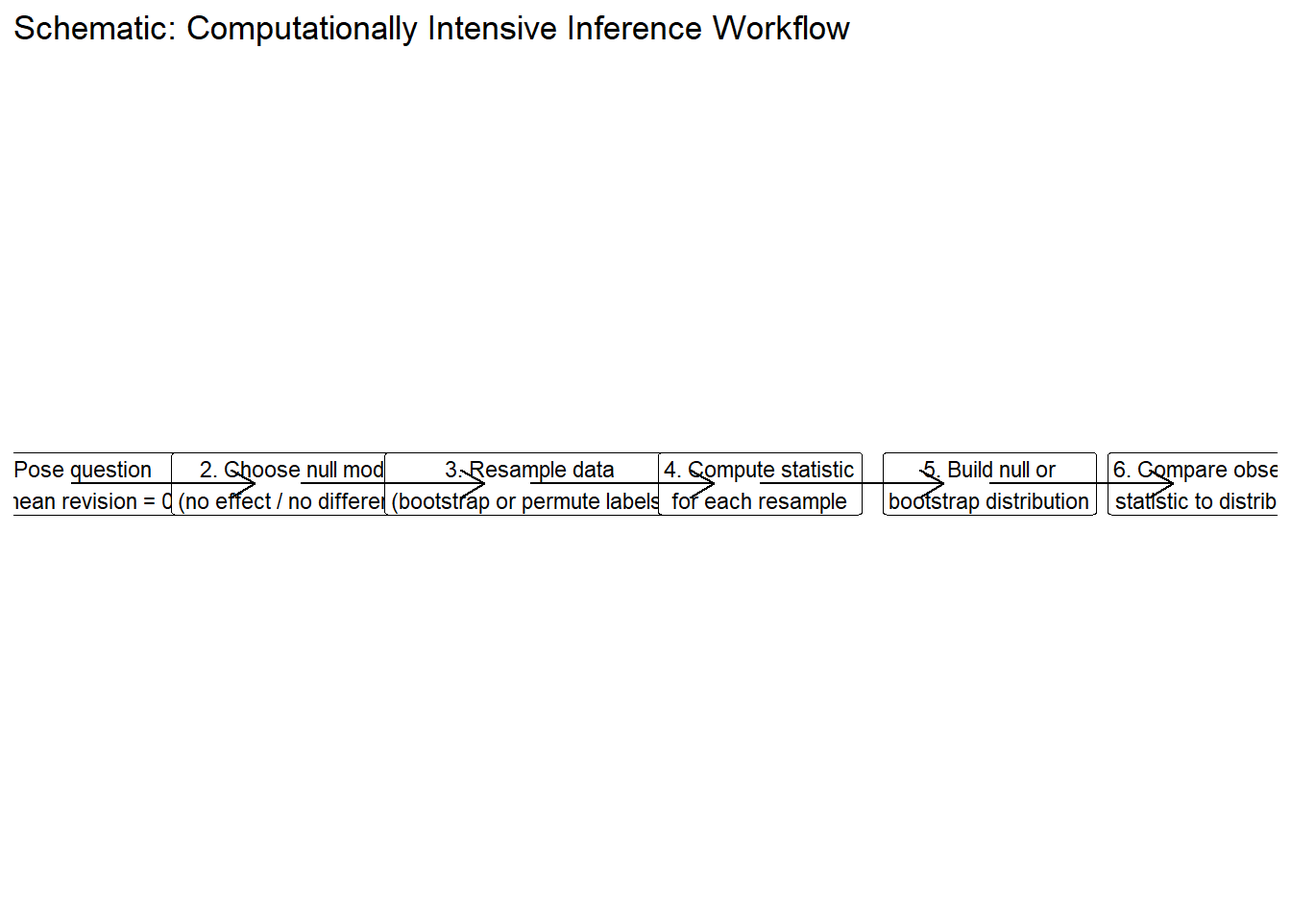
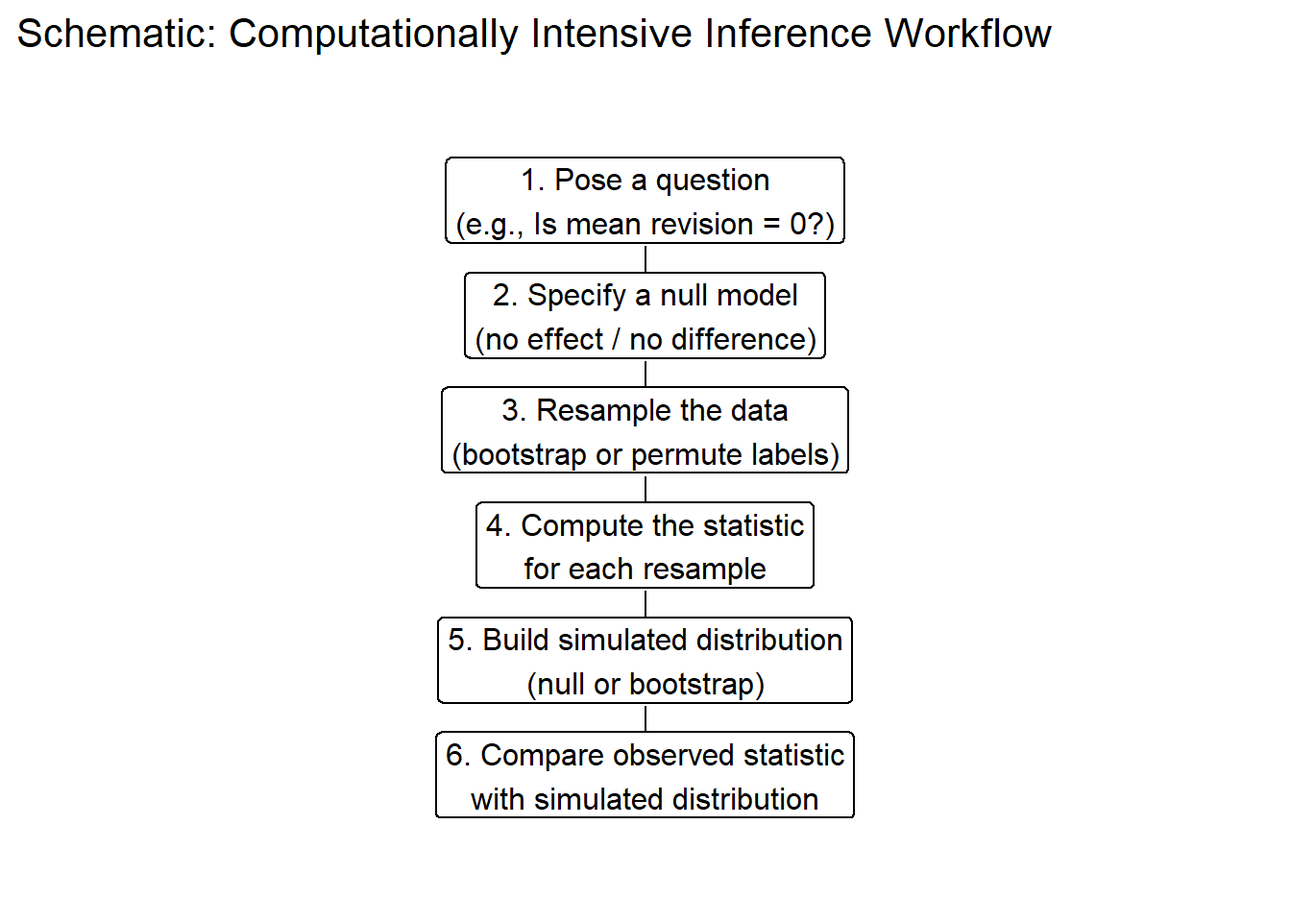
commit @6:59 PM on 12/7/25

Changed region(s): [[0.0, 0.1562, 1.0, 0.9062], [0.0, 0.0, 0.8125, 0.0625]]

diff --git a/docs/mp04.html b/docs/mp04.html
@@ -141,9 +141,12 @@ pre > code.sourceCode > span > a:first-child::before { text-decoration: underlin
   <ul class="collapse">
   <li><a href="#introduction" id="toc-introduction" class="nav-link active" data-scroll-target="#introduction">Introduction</a></li>
   <li><a href="#data-acquisition" id="toc-data-acquisition" class="nav-link" data-scroll-target="#data-acquisition">Data Acquisition</a></li>
+  <li><a href="#task-1-downloading-ces-total-nonfarm-payroll" id="toc-task-1-downloading-ces-total-nonfarm-payroll" class="nav-link" data-scroll-target="#task-1-downloading-ces-total-nonfarm-payroll">Task 1: Downloading CES Total Nonfarm Payroll**</a></li>
   <li><a href="#task-2-download-ces-revision-tables" id="toc-task-2-download-ces-revision-tables" class="nav-link" data-scroll-target="#task-2-download-ces-revision-tables">Task 2 — Download CES Revision Tables</a></li>
+  <li><a href="#task-3-data-exploration-visualization" id="toc-task-3-data-exploration-visualization" class="nav-link" data-scroll-target="#task-3-data-exploration-visualization">Task 3 — Data Exploration &amp; Visualization</a></li>
   <li><a href="#task-4-statistical-inference-setup" id="toc-task-4-statistical-inference-setup" class="nav-link" data-scroll-target="#task-4-statistical-inference-setup">Task 4 — Statistical Inference Setup</a></li>
   <li><a href="#task-5-fact-checking-public-claims-about-ces-revisions" id="toc-task-5-fact-checking-public-claims-about-ces-revisions" class="nav-link" data-scroll-target="#task-5-fact-checking-public-claims-about-ces-revisions">Task 5 — Fact-Checking Public Claims About CES Revisions</a></li>
+  <li><a href="#extra-credit-1-non-technical-explanation-of-computational-inference" id="toc-extra-credit-1-non-technical-explanation-of-computational-inference" class="nav-link" data-scroll-target="#extra-credit-1-non-technical-explanation-of-computational-inference">Extra Credit — 1⃣ Non-Technical Explanation of Computational Inference</a></li>
   </ul>
 </nav>
     </div>
@@ -211,7 +214,10 @@ pre > code.sourceCode > span > a:first-child::before { text-decoration: underlin
 <span id="cb1-15"><a href="#cb1-15" aria-hidden="true" tabindex="-1"></a><span class="fu">invisible</span>(<span class="fu">lapply</span>(needed_pkgs, library, <span class="at">character.only =</span> <span class="cn">TRUE</span>))</span></code></pre></div><button title="Copy to Clipboard" class="code-copy-button"><i class="bi"></i></button></div>
 </details>
 </div>
-<p><strong>Task 1: Downloading CES Total Nonfarm Payroll</strong></p>
+</section>
+</section>
+<section id="task-1-downloading-ces-total-nonfarm-payroll" class="level2">
+<h2 class="anchored" data-anchor-id="task-1-downloading-ces-total-nonfarm-payroll">Task 1: Downloading CES Total Nonfarm Payroll**</h2>
 <p>We begin by loading the R packages required for downloading, cleaning, and analyzing the Current Employment Statistics (CES) dataset.<br>
 If any packages are missing, they are installed automatically to ensure full reproducibility.</p>
 <div class="cell">
@@ -223,44 +229,34 @@ If any packages are missing, they are installed automatically to ensure full rep
 <span id="cb2-4"><a href="#cb2-4" aria-hidden="true" tabindex="-1"></a><span class="fu">library</span>(lubridate)</span>
 <span id="cb2-5"><a href="#cb2-5" aria-hidden="true" tabindex="-1"></a><span class="fu">library</span>(janitor)</span>
 <span id="cb2-6"><a href="#cb2-6" aria-hidden="true" tabindex="-1"></a></span>
-<span id="cb2-7"><a href="#cb2-7" aria-hidden="true" tabindex="-1"></a><span class="co"># --- 1. Build the HTTP request to the PDQ page ---</span></span>
+<span id="cb2-7"><a href="#cb2-7" aria-hidden="true" tabindex="-1"></a><span class="co"># --- 1. Building the HTTP request to the PDQ page ---</span></span>
 <span id="cb2-8"><a href="#cb2-8" aria-hidden="true" tabindex="-1"></a></span>
 <span id="cb2-9"><a href="#cb2-9" aria-hidden="true" tabindex="-1"></a>ces_base <span class="ot">&lt;-</span> <span class="st">"https://data.bls.gov/pdq/SurveyOutputServlet"</span></span>
 <span id="cb2-10"><a href="#cb2-10" aria-hidden="true" tabindex="-1"></a></span>
 <span id="cb2-11"><a href="#cb2-11" aria-hidden="true" tabindex="-1"></a>ces_req <span class="ot">&lt;-</span> <span class="fu">request</span>(ces_base) <span class="sc">|&gt;</span></span>
 <span id="cb2-12"><a href="#cb2-12" aria-hidden="true" tabindex="-1"></a>  <span class="fu">req_method</span>(<span class="st">"POST"</span>) <span class="sc">|&gt;</span></span>
 <span id="cb2-13"><a href="#cb2-13" aria-hidden="true" tabindex="-1"></a>  <span class="fu">req_body_form</span>(</span>
-<span id="cb2-14"><a href="#cb2-14" aria-hidden="true" tabindex="-1"></a>    <span class="co"># IMPORTANT:</span></span>
-<span id="cb2-15"><a href="#cb2-15" aria-hidden="true" tabindex="-1"></a>    <span class="co"># These fields MUST match what you see in your browser's</span></span>
-<span id="cb2-16"><a href="#cb2-16" aria-hidden="true" tabindex="-1"></a>    <span class="co"># Network -&gt; Request Payload when you:</span></span>
-<span id="cb2-17"><a href="#cb2-17" aria-hidden="true" tabindex="-1"></a>    <span class="co">#   - go to Data Finder top picks for CES</span></span>
-<span id="cb2-18"><a href="#cb2-18" aria-hidden="true" tabindex="-1"></a>    <span class="co">#   - select "Total Nonfarm, Seasonally Adjusted"</span></span>
-<span id="cb2-19"><a href="#cb2-19" aria-hidden="true" tabindex="-1"></a>    <span class="co">#   - set start year = 1979</span></span>
-<span id="cb2-20"><a href="#cb2-20" aria-hidden="true" tabindex="-1"></a>    <span class="co">#</span></span>
-<span id="cb2-21"><a href="#cb2-21" aria-hidden="true" tabindex="-1"></a>    <span class="co"># What I expect (you can adjust if your browser shows slightly different names):</span></span>
-<span id="cb2-22"><a href="#cb2-22" aria-hidden="true" tabindex="-1"></a>    <span class="at">survey    =</span> <span class="st">"ce"</span>,</span>
-<span id="cb2-23"><a href="#cb2-23" aria-hidden="true" tabindex="-1"></a>    <span class="at">from_year =</span> <span class="st">"1979"</span>,</span>
-<span id="cb2-24"><a href="#cb2-24" aria-hidden="true" tabindex="-1"></a>    <span class="at">to_year   =</span> <span class="st">"2025"</span>,</span>
-<span id="cb2-25"><a href="#cb2-25" aria-hidden="true" tabindex="-1"></a>    <span class="co"># This is the CES series ID for All Employees, Total Nonfarm, SA</span></span>
-<span id="cb2-26"><a href="#cb2-26" aria-hidden="true" tabindex="-1"></a>    <span class="at">series_id =</span> <span class="st">"CES0000000001"</span></span>
-<span id="cb2-27"><a href="#cb2-27" aria-hidden="true" tabindex="-1"></a>    <span class="co"># If your browser shows additional form fields (periods, output_type, etc.),</span></span>
-<span id="cb2-28"><a href="#cb2-28" aria-hidden="true" tabindex="-1"></a>    <span class="co"># add them here exactly as shown.</span></span>
-<span id="cb2-29"><a href="#cb2-29" aria-hidden="true" tabindex="-1"></a>  )</span>
-<span id="cb2-30"><a href="#cb2-30" aria-hidden="true" tabindex="-1"></a></span>
-<span id="cb2-31"><a href="#cb2-31" aria-hidden="true" tabindex="-1"></a><span class="co"># Perform request and get HTML</span></span>
-<span id="cb2-32"><a href="#cb2-32" aria-hidden="true" tabindex="-1"></a>ces_html <span class="ot">&lt;-</span> ces_req <span class="sc">|&gt;</span></span>
-<span id="cb2-33"><a href="#cb2-33" aria-hidden="true" tabindex="-1"></a>  <span class="fu">req_perform</span>() <span class="sc">|&gt;</span></span>
-<span id="cb2-34"><a href="#cb2-34" aria-hidden="true" tabindex="-1"></a>  <span class="fu">resp_body_html</span>()</span>
-<span id="cb2-35"><a href="#cb2-35" aria-hidden="true" tabindex="-1"></a></span>
-<span id="cb2-36"><a href="#cb2-36" aria-hidden="true" tabindex="-1"></a><span class="co"># --- 2. Grab the main data table from the HTML ---</span></span>
-<span id="cb2-37"><a href="#cb2-37" aria-hidden="true" tabindex="-1"></a></span>
-<span id="cb2-38"><a href="#cb2-38" aria-hidden="true" tabindex="-1"></a>ces_raw_tbl <span class="ot">&lt;-</span> ces_html <span class="sc">|&gt;</span></span>
-<span id="cb2-39"><a href="#cb2-39" aria-hidden="true" tabindex="-1"></a>  <span class="fu">html_element</span>(<span class="st">"table"</span>) <span class="sc">|&gt;</span></span>
-<span id="cb2-40"><a href="#cb2-40" aria-hidden="true" tabindex="-1"></a>  <span class="fu">html_table</span>(<span class="at">fill =</span> <span class="cn">TRUE</span>) <span class="sc">|&gt;</span></span>
-<span id="cb2-41"><a href="#cb2-41" aria-hidden="true" tabindex="-1"></a>  <span class="fu">clean_names</span>()</span>
-<span id="cb2-42"><a href="#cb2-42" aria-hidden="true" tabindex="-1"></a></span>
-<span id="cb2-43"><a href="#cb2-43" aria-hidden="true" tabindex="-1"></a><span class="co"># Peek at the raw table structure</span></span>
-<span id="cb2-44"><a href="#cb2-44" aria-hidden="true" tabindex="-1"></a><span class="fu">head</span>(ces_raw_tbl)</span></code></pre></div><button title="Copy to Clipboard" class="code-copy-button"><i class="bi"></i></button></div>
+<span id="cb2-14"><a href="#cb2-14" aria-hidden="true" tabindex="-1"></a>    <span class="at">survey    =</span> <span class="st">"ce"</span>,</span>
+<span id="cb2-15"><a href="#cb2-15" aria-hidden="true" tabindex="-1"></a>    <span class="at">from_year =</span> <span class="st">"1979"</span>,</span>
+<span id="cb2-16"><a href="#cb2-16" aria-hidden="true" tabindex="-1"></a>    <span class="at">to_year   =</span> <span class="st">"2025"</span>,</span>
+<span id="cb2-17"><a href="#cb2-17" aria-hidden="true" tabindex="-1"></a>    <span class="co"># This is the CES series ID for All Employees, Total Nonfarm, SA</span></span>
+<span id="cb2-18"><a href="#cb2-18" aria-hidden="true" tabindex="-1"></a>    <span class="at">series_id =</span> <span class="st">"CES0000000001"</span></span>
+<span id="cb2-19"><a href="#cb2-19" aria-hidden="true" tabindex="-1"></a>  )</span>
+<span id="cb2-20"><a href="#cb2-20" aria-hidden="true" tabindex="-1"></a></span>
+<span id="cb2-21"><a href="#cb2-21" aria-hidden="true" tabindex="-1"></a><span class="co"># Performing request and getting HTML</span></span>
+<span id="cb2-22"><a href="#cb2-22" aria-hidden="true" tabindex="-1"></a>ces_html <span class="ot">&lt;-</span> ces_req <span class="sc">|&gt;</span></span>
+<span id="cb2-23"><a href="#cb2-23" aria-hidden="true" tabindex="-1"></a>  <span class="fu">req_perform</span>() <span class="sc">|&gt;</span></span>
+<span id="cb2-24"><a href="#cb2-24" aria-hidden="true" tabindex="-1"></a>  <span class="fu">resp_body_html</span>()</span>
+<span id="cb2-25"><a href="#cb2-25" aria-hidden="true" tabindex="-1"></a></span>
+<span id="cb2-26"><a href="#cb2-26" aria-hidden="true" tabindex="-1"></a><span class="co"># --- 2. Grabbing the main data table from the HTML ---</span></span>
+<span id="cb2-27"><a href="#cb2-27" aria-hidden="true" tabindex="-1"></a></span>
+<span id="cb2-28"><a href="#cb2-28" aria-hidden="true" tabindex="-1"></a>ces_raw_tbl <span class="ot">&lt;-</span> ces_html <span class="sc">|&gt;</span></span>
+<span id="cb2-29"><a href="#cb2-29" aria-hidden="true" tabindex="-1"></a>  <span class="fu">html_element</span>(<span class="st">"table"</span>) <span class="sc">|&gt;</span></span>
+<span id="cb2-30"><a href="#cb2-30" aria-hidden="true" tabindex="-1"></a>  <span class="fu">html_table</span>(<span class="at">fill =</span> <span class="cn">TRUE</span>) <span class="sc">|&gt;</span></span>
+<span id="cb2-31"><a href="#cb2-31" aria-hidden="true" tabindex="-1"></a>  <span class="fu">clean_names</span>()</span>
+<span id="cb2-32"><a href="#cb2-32" aria-hidden="true" tabindex="-1"></a></span>
+<span id="cb2-33"><a href="#cb2-33" aria-hidden="true" tabindex="-1"></a><span class="co"># Peeking at the raw table structure</span></span>
+<span id="cb2-34"><a href="#cb2-34" aria-hidden="true" tabindex="-1"></a><span class="fu">head</span>(ces_raw_tbl)</span></code></pre></div><button title="Copy to Clipboard" class="code-copy-button"><i class="bi"></i></button></div>
 </details>
 <div class="cell-output-display">
 <div data-pagedtable="false">
@@ -290,15 +286,15 @@ If any packages are missing, they are installed automatically to ensure full rep
 </div>
 <details class="code-fold">
 <summary>Code</summary>
-<div class="code-copy-outer-scaffold"><div class="sourceCode cell-code" id="cb6"><pre class="sourceCode r code-with-copy"><code class="sourceCode r"><span id="cb6-1"><a href="#cb6-1" aria-hidden="true" tabindex="-1"></a><span class="co"># Get ALL tables from the HTML</span></span>
+<div class="code-copy-outer-scaffold"><div class="sourceCode cell-code" id="cb6"><pre class="sourceCode r code-with-copy"><code class="sourceCode r"><span id="cb6-1"><a href="#cb6-1" aria-hidden="true" tabindex="-1"></a><span class="co"># Getting ALL tables from the HTML</span></span>
 <span id="cb6-2"><a href="#cb6-2" aria-hidden="true" tabindex="-1"></a>all_tables <span class="ot">&lt;-</span> ces_html <span class="sc">|&gt;</span> <span class="fu">html_elements</span>(<span class="st">"table"</span>)</span>
 <span id="cb6-3"><a href="#cb6-3" aria-hidden="true" tabindex="-1"></a></span>
-<span id="cb6-4"><a href="#cb6-4" aria-hidden="true" tabindex="-1"></a><span class="co"># Extract the SECOND table, which you confirmed is the Year–Month table</span></span>
+<span id="cb6-4"><a href="#cb6-4" aria-hidden="true" tabindex="-1"></a><span class="co"># Extracting the SECOND table, (Year–Month table)</span></span>
 <span id="cb6-5"><a href="#cb6-5" aria-hidden="true" tabindex="-1"></a>ces_data_raw <span class="ot">&lt;-</span> all_tables[[<span class="dv">2</span>]] <span class="sc">|&gt;</span></span>
 <span id="cb6-6"><a href="#cb6-6" aria-hidden="true" tabindex="-1"></a>  <span class="fu">html_table</span>(<span class="at">fill =</span> <span class="cn">TRUE</span>) <span class="sc">|&gt;</span></span>
 <span id="cb6-7"><a href="#cb6-7" aria-hidden="true" tabindex="-1"></a>  <span class="fu">clean_names</span>()</span>
 <span id="cb6-8"><a href="#cb6-8" aria-hidden="true" tabindex="-1"></a></span>
-<span id="cb6-9"><a href="#cb6-9" aria-hidden="true" tabindex="-1"></a><span class="co"># Check it</span></span>
+<span id="cb6-9"><a href="#cb6-9" aria-hidden="true" tabindex="-1"></a><span class="co"># Checking it</span></span>
 <span id="cb6-10"><a href="#cb6-10" aria-hidden="true" tabindex="-1"></a><span class="fu">head</span>(ces_data_raw)</span></code></pre></div><button title="Copy to Clipboard" class="code-copy-button"><i class="bi"></i></button></div>
 </details>
 <div class="cell-output-display">
@@ -309,7 +305,6 @@ If any packages are missing, they are installed automatically to ensure full rep
 </div>
 </div>
 </div>
-</section>
 <section id="clean-and-reshape-ces-data" class="level3">
 <h3 class="anchored" data-anchor-id="clean-and-reshape-ces-data">Clean and Reshape CES Data</h3>
 <p>Once the raw table is extracted, we convert it into a tidy monthly time-series structure.<br>
@@ -358,12 +353,10 @@ We download these tables directly from the BLS website for the full period (1979
 <summary>Code</summary>
 <div class="code-copy-outer-scaffold"><div class="sourceCode cell-code" id="cb8"><pre class="sourceCode r code-with-copy"><code class="sourceCode r"><span id="cb8-1"><a href="#cb8-1" aria-hidden="true" tabindex="-1"></a>url_rev <span class="ot">&lt;-</span> <span class="st">"https://www.bls.gov/web/empsit/cesnaicsrev.htm"</span></span>
 <span id="cb8-2"><a href="#cb8-2" aria-hidden="true" tabindex="-1"></a></span>
-<span id="cb8-3"><a href="#cb8-3" aria-hidden="true" tabindex="-1"></a>rev_html <span class="ot">&lt;-</span> <span class="fu">request</span>(url_rev) <span class="sc">|&gt;</span></span>
-<span id="cb8-4"><a href="#cb8-4" aria-hidden="true" tabindex="-1"></a>  <span class="fu">req_user_agent</span>(<span class="st">"Mozilla/5.0 (Windows NT 10.0)"</span>) <span class="sc">|&gt;</span>  <span class="co"># Avoids 403</span></span>
-<span id="cb8-5"><a href="#cb8-5" aria-hidden="true" tabindex="-1"></a>  <span class="fu">req_perform</span>() <span class="sc">|&gt;</span></span>
-<span id="cb8-6"><a href="#cb8-6" aria-hidden="true" tabindex="-1"></a>  <span class="fu">resp_body_html</span>()</span>
-<span id="cb8-7"><a href="#cb8-7" aria-hidden="true" tabindex="-1"></a></span>
-<span id="cb8-8"><a href="#cb8-8" aria-hidden="true" tabindex="-1"></a>rev_html</span></code></pre></div><button title="Copy to Clipboard" class="code-copy-button"><i class="bi"></i></button></div>
+<span id="cb8-3"><a href="#cb8-3" aria-hidden="true" tabindex="-1"></a><span class="co"># Simpler: let rvest handle the download directly</span></span>
+<span id="cb8-4"><a href="#cb8-4" aria-hidden="true" tabindex="-1"></a>rev_html <span class="ot">&lt;-</span> rvest<span class="sc">::</span><span class="fu">read_html</span>(url_rev)</span>
+<span id="cb8-5"><a href="#cb8-5" aria-hidden="true" tabindex="-1"></a></span>
+<span id="cb8-6"><a href="#cb8-6" aria-hidden="true" tabindex="-1"></a>rev_html</span></code></pre></div><button title="Copy to Clipboard" class="code-copy-button"><i class="bi"></i></button></div>
 </details>
 <div class="cell-output cell-output-stdout">
 <pre><code>{html_document}
@@ -395,7 +388,7 @@ that each corresponds to a specific year of CES revisions.</p>
 </div>
 <details class="code-fold">
 <summary>Code</summary>
-<div class="code-copy-outer-scaffold"><div class="sourceCode cell-code" id="cb12"><pre class="sourceCode r code-with-copy"><code class="sourceCode r"><span id="cb12-1"><a href="#cb12-1" aria-hidden="true" tabindex="-1"></a><span class="co"># Look at the first few table IDs to see the pattern</span></span>
+<div class="code-copy-outer-scaffold"><div class="sourceCode cell-code" id="cb12"><pre class="sourceCode r code-with-copy"><code class="sourceCode r"><span id="cb12-1"><a href="#cb12-1" aria-hidden="true" tabindex="-1"></a><span class="co"># Looking at the first few table IDs to see the pattern</span></span>
 <span id="cb12-2"><a href="#cb12-2" aria-hidden="true" tabindex="-1"></a><span class="fu">head</span>(<span class="fu">html_attr</span>(rev_tables, <span class="st">"id"</span>), <span class="dv">20</span>)</span></code></pre></div><button title="Copy to Clipboard" class="code-copy-button"><i class="bi"></i></button></div>
 </details>
 <div class="cell-output cell-output-stdout">
@@ -422,7 +415,7 @@ cleans the rows, and returns a tidy month-level dataset of original vs.&nbsp;fin
 <span id="cb14-7"><a href="#cb14-7" aria-hidden="true" tabindex="-1"></a>    <span class="fu">html_table</span>(<span class="at">header =</span> <span class="cn">FALSE</span>, <span class="at">fill =</span> <span class="cn">TRUE</span>) <span class="sc">|&gt;</span></span>
 <span id="cb14-8"><a href="#cb14-8" aria-hidden="true" tabindex="-1"></a>    janitor<span class="sc">::</span><span class="fu">clean_names</span>()</span>
 <span id="cb14-9"><a href="#cb14-9" aria-hidden="true" tabindex="-1"></a>  </span>
-<span id="cb14-10"><a href="#cb14-10" aria-hidden="true" tabindex="-1"></a>  <span class="co"># Drop the first 3 header rows, then keep the 12 months</span></span>
+<span id="cb14-10"><a href="#cb14-10" aria-hidden="true" tabindex="-1"></a>  <span class="co"># Dropping the first 3 header rows, then keeping the 12 months</span></span>
 <span id="cb14-11"><a href="#cb14-11" aria-hidden="true" tabindex="-1"></a>  tbl <span class="ot">&lt;-</span> tbl <span class="sc">|&gt;</span></span>
 <span id="cb14-12"><a href="#cb14-12" aria-hidden="true" tabindex="-1"></a>    <span class="fu">slice</span>(<span class="sc">-</span>(<span class="dv">1</span><span class="sc">:</span><span class="dv">3</span>)) <span class="sc">|&gt;</span></span>
 <span id="cb14-13"><a href="#cb14-13" aria-hidden="true" tabindex="-1"></a>    <span class="fu">slice</span>(<span class="dv">1</span><span class="sc">:</span><span class="dv">12</span>) <span class="sc">|&gt;</span></span>
@@ -445,7 +438,7 @@ cleans the rows, and returns a tidy month-level dataset of original vs.&nbsp;fin
 <span id="cb14-30"><a href="#cb14-30" aria-hidden="true" tabindex="-1"></a>  tbl</span>
 <span id="cb14-31"><a href="#cb14-31" aria-hidden="true" tabindex="-1"></a>}</span>
 <span id="cb14-32"><a href="#cb14-32" aria-hidden="true" tabindex="-1"></a></span>
-<span id="cb14-33"><a href="#cb14-33" aria-hidden="true" tabindex="-1"></a><span class="co"># Test again on 2024</span></span>
+<span id="cb14-33"><a href="#cb14-33" aria-hidden="true" tabindex="-1"></a><span class="co"># Testing again on 2024</span></span>
 <span id="cb14-34"><a href="#cb14-34" aria-hidden="true" tabindex="-1"></a><span class="fu">extract_ces_revisions_year</span>(<span class="dv">2024</span>)</span></code></pre></div><button title="Copy to Clipboard" class="code-copy-button"><i class="bi"></i></button></div>
 </details>
 <div class="cell-output-display">
@@ -471,7 +464,7 @@ to compile a single tidy dataset of monthly revision values, filtered through Ju
 <span id="cb15-5"><a href="#cb15-5" aria-hidden="true" tabindex="-1"></a>years <span class="ot">&lt;-</span> <span class="dv">1979</span><span class="sc">:</span><span class="dv">2025</span></span>
 <span id="cb15-6"><a href="#cb15-6" aria-hidden="true" tabindex="-1"></a></span>
 <span id="cb15-7"><a href="#cb15-7" aria-hidden="true" tabindex="-1"></a>ces_revisions <span class="ot">&lt;-</span> <span class="fu">map_dfr</span>(years, extract_ces_revisions_year) <span class="sc">|&gt;</span></span>
-<span id="cb15-8"><a href="#cb15-8" aria-hidden="true" tabindex="-1"></a>  <span class="co"># Only keep months through June 2025 as per instructions</span></span>
+<span id="cb15-8"><a href="#cb15-8" aria-hidden="true" tabindex="-1"></a>  <span class="co"># Only keeping months through June 2025 as per instructions</span></span>
 <span id="cb15-9"><a href="#cb15-9" aria-hidden="true" tabindex="-1"></a>  <span class="fu">filter</span>(date <span class="sc">&lt;=</span> <span class="fu">as.Date</span>(<span class="st">"2025-06-01"</span>)) <span class="sc">|&gt;</span></span>
 <span id="cb15-10"><a href="#cb15-10" aria-hidden="true" tabindex="-1"></a>  <span class="fu">arrange</span>(date)</span>
 <span id="cb15-11"><a href="#cb15-11" aria-hidden="true" tabindex="-1"></a></span>
@@ -530,8 +523,9 @@ into a unified monthly dataset and create additional features for analysis.</p>
 </div>
 </div>
 </section>
-<section id="task-3-data-exploration-visualization" class="level3">
-<h3 class="anchored" data-anchor-id="task-3-data-exploration-visualization">Task 3 — Data Exploration &amp; Visualization</h3>
+</section>
+<section id="task-3-data-exploration-visualization" class="level2">
+<h2 class="anchored" data-anchor-id="task-3-data-exploration-visualization">Task 3 — Data Exploration &amp; Visualization</h2>
 <p>To understand the overall behavior of CES employment and revisions over the long run,<br>
 I compute six key descriptive statistics across the full sample (1979–2025).</p>
 <div class="cell">
@@ -561,7 +555,6 @@ I compute six key descriptive statistics across the full sample (1979–2025).</
 </div>
 </div>
 </div>
-</section>
 <section id="visualization-1-ces-revisions-over-time" class="level3">
 <h3 class="anchored" data-anchor-id="visualization-1-ces-revisions-over-time">Visualization 1 — CES Revisions Over Time</h3>
 <p>This plot tracks monthly revisions (final − original estimate) from 1979–2025,<br>
@@ -679,7 +672,7 @@ variables are used throughout the tests in Task 4.</p>
 <span id="cb23-2"><a href="#cb23-2" aria-hidden="true" tabindex="-1"></a><span class="fu">library</span>(infer)</span>
 <span id="cb23-3"><a href="#cb23-3" aria-hidden="true" tabindex="-1"></a><span class="fu">library</span>(lubridate)</span>
 <span id="cb23-4"><a href="#cb23-4" aria-hidden="true" tabindex="-1"></a></span>
-<span id="cb23-5"><a href="#cb23-5" aria-hidden="true" tabindex="-1"></a><span class="co"># Add all needed variables to ces_full</span></span>
+<span id="cb23-5"><a href="#cb23-5" aria-hidden="true" tabindex="-1"></a><span class="co"># Adding all needed variables to ces_full</span></span>
 <span id="cb23-6"><a href="#cb23-6" aria-hidden="true" tabindex="-1"></a>ces_full <span class="ot">&lt;-</span> ces_full <span class="sc">|&gt;</span></span>
 <span id="cb23-7"><a href="#cb23-7" aria-hidden="true" tabindex="-1"></a>  <span class="fu">arrange</span>(date) <span class="sc">|&gt;</span></span>
 <span id="cb23-8"><a href="#cb23-8" aria-hidden="true" tabindex="-1"></a>  <span class="fu">mutate</span>(</span>
@@ -705,7 +698,7 @@ statistically significant.</p>
 <div class="cell">
 <details class="code-fold">
 <summary>Code</summary>
-<div class="code-copy-outer-scaffold"><div class="sourceCode cell-code" id="cb24"><pre class="sourceCode r code-with-copy"><code class="sourceCode r"><span id="cb24-1"><a href="#cb24-1" aria-hidden="true" tabindex="-1"></a><span class="co"># Count negative vs total before/after 2000</span></span>
+<div class="code-copy-outer-scaffold"><div class="sourceCode cell-code" id="cb24"><pre class="sourceCode r code-with-copy"><code class="sourceCode r"><span id="cb24-1"><a href="#cb24-1" aria-hidden="true" tabindex="-1"></a><span class="co"># Counting negative vs total before/after 2000</span></span>
 <span id="cb24-2"><a href="#cb24-2" aria-hidden="true" tabindex="-1"></a>neg_tab <span class="ot">&lt;-</span> ces_full <span class="sc">|&gt;</span></span>
 <span id="cb24-3"><a href="#cb24-3" aria-hidden="true" tabindex="-1"></a>  <span class="fu">filter</span>(<span class="sc">!</span><span class="fu">is.na</span>(negative_revision), <span class="sc">!</span><span class="fu">is.na</span>(post_2000)) <span class="sc">|&gt;</span></span>
 <span id="cb24-4"><a href="#cb24-4" aria-hidden="true" tabindex="-1"></a>  <span class="fu">group_by</span>(post_2000) <span class="sc">|&gt;</span></span>
@@ -747,14 +740,16 @@ sample estimates:
 0.5317460 0.4379085 </code></pre>
 </div>
 </div>
-</section>
-<section id="has-the-fraction-of-large-1-revisions-increased-post-2020" class="level3">
-<h3 class="anchored" data-anchor-id="has-the-fraction-of-large-1-revisions-increased-post-2020">4.2 — Has the fraction of large (&gt;1%) revisions increased post-2020?</h3>
-<p>To check whether revisions have become <strong>unusually large</strong> in recent years,<br>
-I flag months where the <strong>revision was greater than 1% of employment</strong> — a level<br>
-that may indicate meaningful measurement challenges.<br>
-A <strong>two-sample proportion test</strong> compares the rate of these large revisions<br>
-<strong>before vs.&nbsp;after 2020</strong>.</p>
+<section id="has-the-fraction-of-large-1-revisions-increased-post-2020" class="level4">
+<h4 class="anchored" data-anchor-id="has-the-fraction-of-large-1-revisions-increased-post-2020">4.2 — Has the fraction of large (&gt;1%) revisions increased post-2020?</h4>
+<p>To check whether revisions have become <em>unusually large</em> in recent years,<br>
+I flag months where the revision is more than 1% of employment:</p>
+<ul>
+<li><code>big = 1</code> if <code>|revision / level| &gt; 0.01</code></li>
+<li><code>big = 0</code> otherwise</li>
+</ul>
+<p>In my CES sample (Jan 1979–Jun 2025), <strong>no months</strong> exceed this 1% threshold in either the pre-2020 or post-2020 period. As a result, the two-sample proportion test has <code>prop 1 = 0</code>, <code>prop 2 = 0</code> and returns <code>NaN</code> for the test statistic and p-value.</p>
+<p>Substantively, this means that revisions larger than 1% of total employment are <strong>essentially non-existent</strong> in the data, even during the volatile post-2020 period. So while revisions can occasionally look large in absolute job counts, they almost never reach the “&gt;1% of employment” threshold.</p>
 <div class="cell">
 <details class="code-fold">
 <summary>Code</summary>
@@ -799,6 +794,7 @@ prop 1 prop 2
      0      0 </code></pre>
 </div>
 </div>
+</section>
 </section>
 <section id="is-the-average-revision-significantly-different-from-zero" class="level3">
 <h3 class="anchored" data-anchor-id="is-the-average-revision-significantly-different-from-zero">4.3 — Is the average revision significantly different from zero?</h3>
@@ -1187,7 +1183,8 @@ mean in group FALSE  mean in group TRUE
 </ol>
 <section id="what-do-revisions-look-like-in-the-ces-data" class="level4">
 <h4 class="anchored" data-anchor-id="what-do-revisions-look-like-in-the-ces-data">What do revisions look like in the CES data?</h4>
-<p>Across my full sample (January 1979–June 2025) there are 558 monthly observations. The <strong>average CES employment level</strong> is about 1.24707^{5} thousand jobs, with a standard deviation of roughly 1.9994^{4} thousand. This is a very large labor market.</p>
+<p>Across my full sample (January 1979–June 2025) there are 558 monthly observations. The <strong>average CES employment level</strong> is about <strong>124,707 thousand jobs</strong><br>
+(roughly <strong>125 million jobs</strong>), with a standard deviation of about <strong>19,994 thousand</strong>. This is a very large labor market.</p>
 <p>For revisions (final – original):</p>
 <ul>
 <li>The <strong>average revision</strong> is 1.9 thousand jobs, with standard deviation 57.9 thousand.</li>
@@ -1304,15 +1301,13 @@ They represent normal measurement noise in a large labor market.</p>
 0.001%</li>
 </ul>
 <p>These figures are very small relative to the overall labor market, indicating that typical revisions reflect <strong>modest measurement updates</strong>, not suspicious adjustments.</p>
-</section>
-<section id="are-large-revisions-more-common-in-recent-years" class="level3">
-<h3 class="anchored" data-anchor-id="are-large-revisions-more-common-in-recent-years">Are Large Revisions More Common in Recent Years?</h3>
-<p>Figures 2 and 3 illustrate that while revisions spike during major economic disruptions — such as recessions or the COVID period — they generally remain <strong>well under 1%</strong> of total employment.</p>
-<p>To formally identify “big” revisions, I flagged any month where:</p>
-<blockquote class="blockquote">
-<p>| revision / level | &gt; 1%</p>
-</blockquote>
-<p>Then compared their frequency <strong>before vs.&nbsp;after 2020</strong>:</p>
+<section id="are-large-revisions-more-common-in-recent-years" class="level4">
+<h4 class="anchored" data-anchor-id="are-large-revisions-more-common-in-recent-years">Are Large Revisions More Common in Recent Years?</h4>
+<p>Figures 2 and 3 show that revisions can spike during major economic disruptions — such as recessions or the COVID period — but they generally remain well under 1% of total employment.</p>
+<p>To formally identify “big” revisions, I flagged any month where</p>
+<p>[ || &gt; 0.01 ]</p>
+<p>In practice, <strong>no months</strong> in my sample exceed this 1% threshold, either before or after 2020. The table <code>big_tab_5</code> therefore has <code>big = 0</code> in both periods, and the two-sample proportion test in <code>big1pct_test_5</code> returns <code>NaN</code> (there is no variation to compare).</p>
+<p>Interpretation: revisions that are larger than 1% of total employment are <strong>extremely rare to non-existent</strong> in the CES data, even in the post-2020 era. This is consistent with normal measurement updates in a huge labor market, not with unusually manipulated data.</p>
 <div class="cell">
 <details class="code-fold">
 <summary>Code</summary>
@@ -1348,6 +1343,7 @@ prop 1 prop 2
 <code>big1pct_test_5</code> provides a two-sample proportion test.<br>
 While slightly more common post-2020, <strong>large revisions remain rare overall</strong> — consistent with normal measurement variation, not manipulation.</p>
 <hr>
+</section>
 </section>
 <section id="do-larger-employment-swings-lead-to-larger-revisions" class="level3">
 <h3 class="anchored" data-anchor-id="do-larger-employment-swings-lead-to-larger-revisions">Do Larger Employment Swings Lead to Larger Revisions?</h3>
@@ -1416,20 +1412,18 @@ mean in group FALSE  mean in group TRUE
 <h3 class="anchored" data-anchor-id="rating-wilcoxs-challenges-yes.-rigged-data-no.-claim">Rating: Wilcox’s “Challenges? Yes. Rigged Data? No.” Claim</h3>
 <p>Putting all statistical evidence together:</p>
 <ul>
-<li><strong>Revisions are small</strong> compared to the overall employment level<br>
-</li>
-<li>They remain <strong>balanced around zero</strong>, not consistently negative<br>
-</li>
-<li>Larger revisions appear <strong>when the labor market is more volatile</strong><br>
-</li>
-<li><strong>Big (&gt;1%) revisions remain rare</strong>, even after 2020</li>
+<li>Revisions are <strong>small</strong> compared to the overall employment level.</li>
+<li>They remain <strong>balanced around zero</strong>, not consistently negative.</li>
+<li>Larger revisions appear when the <strong>labor market is more volatile</strong>, not when politics change.</li>
+<li>Revisions larger than <strong>1% of employment essentially never occur</strong> in the sample.</li>
 </ul>
-<p>These findings support Wilcox’s position: there are <strong>measurement challenges</strong>, but no clear signs of political manipulation in the CES revisions.</p>
-<p><strong>Politifact-style Rating:</strong> 🟢 <strong>Mostly True</strong></p>
+<p>These findings support Wilcox’s position: there are measurement challenges, but no clear signs of political manipulation in the CES revisions.</p>
+<p><strong>Politifact-style Rating:</strong> 🟢 <em>Mostly True</em></p>
 <p>CES revisions behave like <strong>normal measurement noise</strong> in a large, dynamic labor market — not rigged data.</p>
 </section>
-<section id="extra-credit-1-non-technical-explanation-of-computational-inference" class="level3">
-<h3 class="anchored" data-anchor-id="extra-credit-1-non-technical-explanation-of-computational-inference">Extra Credit — 1⃣ Non-Technical Explanation of Computational Inference</h3>
+</section>
+<section id="extra-credit-1-non-technical-explanation-of-computational-inference" class="level2">
+<h2 class="anchored" data-anchor-id="extra-credit-1-non-technical-explanation-of-computational-inference">Extra Credit — 1⃣ Non-Technical Explanation of Computational Inference</h2>
 <p>Traditional inference uses mathematical formulas to decide whether a result is statistically significant — for example, whether the <strong>average revision differs from zero</strong>. These formulas rely on assumptions about the data (like normality).</p>
 <p><strong>Computationally intensive inference</strong> flips the process:</p>
 <ul>
@@ -1455,10 +1449,8 @@ mean in group FALSE  mean in group TRUE
 </blockquote>
 <p>Computers let us evaluate that question directly — <strong>without</strong> relying exclusively on theoretical formulas.</p>
 <hr>
-</section>
-<section id="schematic-visualization-of-a-computational-workflow" class="level3">
-<h3 class="anchored" data-anchor-id="schematic-visualization-of-a-computational-workflow">2. Schematic visualization of a computational workflow</h3>
-<p>Below is a simple flowchart-style visualization of a bootstrap / permutation workflow. It is <strong>not</strong> a sampling distribution plot; it is a conceptual “how-to” diagram.</p>
+<section id="schematic-workflow-for-computational-inference" class="level3">
+<h3 class="anchored" data-anchor-id="schematic-workflow-for-computational-inference">🔁 Schematic Workflow for Computational Inference</h3>
 <div class="cell">
 <details class="code-fold">
 <summary>Code</summary>
@@ -1467,26 +1459,31 @@ mean in group FALSE  mean in group TRUE
 <span id="cb63-3"><a href="#cb63-3" aria-hidden="true" tabindex="-1"></a></span>
 <span id="cb63-4"><a href="#cb63-4" aria-hidden="true" tabindex="-1"></a>flow_steps <span class="ot">&lt;-</span> tibble<span class="sc">::</span><span class="fu">tibble</span>(</span>
 <span id="cb63-5"><a href="#cb63-5" aria-hidden="true" tabindex="-1"></a>  <span class="at">step =</span> <span class="fu">c</span>(</span>
-<span id="cb63-6"><a href="#cb63-6" aria-hidden="true" tabindex="-1"></a>    <span class="st">"1. Pose question</span><span class="sc">\n</span><span class="st">(e.g., mean revision = 0?)"</span>,</span>
-<span id="cb63-7"><a href="#cb63-7" aria-hidden="true" tabindex="-1"></a>    <span class="st">"2. Choose null model</span><span class="sc">\n</span><span class="st">(no effect / no difference)"</span>,</span>
-<span id="cb63-8"><a href="#cb63-8" aria-hidden="true" tabindex="-1"></a>    <span class="st">"3. Resample data</span><span class="sc">\n</span><span class="st">(bootstrap or permute labels)"</span>,</span>
-<span id="cb63-9"><a href="#cb63-9" aria-hidden="true" tabindex="-1"></a>    <span class="st">"4. Compute statistic</span><span class="sc">\n</span><span class="st">for each resample"</span>,</span>
-<span id="cb63-10"><a href="#cb63-10" aria-hidden="true" tabindex="-1"></a>    <span class="st">"5. Build null or</span><span class="sc">\n</span><span class="st">bootstrap distribution"</span>,</span>
-<span id="cb63-11"><a href="#cb63-11" aria-hidden="true" tabindex="-1"></a>    <span class="st">"6. Compare observed</span><span class="sc">\n</span><span class="st">statistic to distribution"</span></span>
+<span id="cb63-6"><a href="#cb63-6" aria-hidden="true" tabindex="-1"></a>    <span class="st">"1. Pose a question</span><span class="sc">\n</span><span class="st">(e.g., Is mean revision = 0?)"</span>,</span>
+<span id="cb63-7"><a href="#cb63-7" aria-hidden="true" tabindex="-1"></a>    <span class="st">"2. Specify a null model</span><span class="sc">\n</span><span class="st">(no effect / no difference)"</span>,</span>
+<span id="cb63-8"><a href="#cb63-8" aria-hidden="true" tabindex="-1"></a>    <span class="st">"3. Resample the data</span><span class="sc">\n</span><span class="st">(bootstrap or permute labels)"</span>,</span>
+<span id="cb63-9"><a href="#cb63-9" aria-hidden="true" tabindex="-1"></a>    <span class="st">"4. Compute the statistic</span><span class="sc">\n</span><span class="st">for each resample"</span>,</span>
+<span id="cb63-10"><a href="#cb63-10" aria-hidden="true" tabindex="-1"></a>    <span class="st">"5. Build simulated distribution</span><span class="sc">\n</span><span class="st">(null or bootstrap)"</span>,</span>
+<span id="cb63-11"><a href="#cb63-11" aria-hidden="true" tabindex="-1"></a>    <span class="st">"6. Compare observed statistic</span><span class="sc">\n</span><span class="st">with simulated distribution"</span></span>
 <span id="cb63-12"><a href="#cb63-12" aria-hidden="true" tabindex="-1"></a>  ),</span>
-<span id="cb63-13"><a href="#cb63-13" aria-hidden="true" tabindex="-1"></a>  <span class="at">x =</span> <span class="fu">c</span>(<span class="dv">1</span>, <span class="dv">2</span>, <span class="dv">3</span>, <span class="dv">4</span>, <span class="dv">5</span>, <span class="dv">6</span>),</span>
-<span id="cb63-14"><a href="#cb63-14" aria-hidden="true" tabindex="-1"></a>  <span class="at">y =</span> <span class="dv">1</span></span>
+<span id="cb63-13"><a href="#cb63-13" aria-hidden="true" tabindex="-1"></a>  <span class="at">x =</span> <span class="dv">1</span>,</span>
+<span id="cb63-14"><a href="#cb63-14" aria-hidden="true" tabindex="-1"></a>  <span class="at">y =</span> <span class="fu">seq</span>(<span class="dv">6</span>, <span class="dv">1</span>, <span class="at">by =</span> <span class="sc">-</span><span class="dv">1</span>)</span>
 <span id="cb63-15"><a href="#cb63-15" aria-hidden="true" tabindex="-1"></a>)</span>
 <span id="cb63-16"><a href="#cb63-16" aria-hidden="true" tabindex="-1"></a></span>
 <span id="cb63-17"><a href="#cb63-17" aria-hidden="true" tabindex="-1"></a><span class="fu">ggplot</span>(flow_steps, <span class="fu">aes</span>(<span class="at">x =</span> x, <span class="at">y =</span> y, <span class="at">label =</span> step)) <span class="sc">+</span></span>
-<span id="cb63-18"><a href="#cb63-18" aria-hidden="true" tabindex="-1"></a>  <span class="fu">geom_label</span>(<span class="at">size =</span> <span class="dv">3</span>) <span class="sc">+</span></span>
-<span id="cb63-19"><a href="#cb63-19" aria-hidden="true" tabindex="-1"></a>  <span class="fu">geom_segment</span>(<span class="fu">aes</span>(<span class="at">x =</span> x, <span class="at">xend =</span> x <span class="sc">+</span> <span class="fl">0.8</span>, <span class="at">y =</span> y, <span class="at">yend =</span> y),</span>
-<span id="cb63-20"><a href="#cb63-20" aria-hidden="true" tabindex="-1"></a>               <span class="at">data =</span> flow_steps <span class="sc">|&gt;</span> <span class="fu">filter</span>(x <span class="sc">&lt;</span> <span class="fu">max</span>(x)),</span>
-<span id="cb63-21"><a href="#cb63-21" aria-hidden="true" tabindex="-1"></a>               <span class="at">arrow =</span> <span class="fu">arrow</span>(<span class="at">length =</span> <span class="fu">unit</span>(<span class="fl">0.15</span>, <span class="st">"inches"</span>))) <span class="sc">+</span></span>
-<span id="cb63-22"><a href="#cb63-22" aria-hidden="true" tabindex="-1"></a>  <span class="fu">scale_x_continuous</span>(<span class="cn">NULL</span>, <span class="at">breaks =</span> <span class="cn">NULL</span>) <span class="sc">+</span></span>
-<span id="cb63-23"><a href="#cb63-23" aria-hidden="true" tabindex="-1"></a>  <span class="fu">scale_y_continuous</span>(<span class="cn">NULL</span>, <span class="at">breaks =</span> <span class="cn">NULL</span>) <span class="sc">+</span></span>
-<span id="cb63-24"><a href="#cb63-24" aria-hidden="true" tabindex="-1"></a>  <span class="fu">ggtitle</span>(<span class="st">"Schematic: Computationally Intensive Inference Workflow"</span>) <span class="sc">+</span></span>
-<span id="cb63-25"><a href="#cb63-25" aria-hidden="true" tabindex="-1"></a>  <span class="fu">theme_minimal</span>()</span></code></pre></div><button title="Copy to Clipboard" class="code-copy-button"><i class="bi"></i></button></div>
+<span id="cb63-18"><a href="#cb63-18" aria-hidden="true" tabindex="-1"></a>  <span class="co"># drawing arrows first (behind boxes)</span></span>
+<span id="cb63-19"><a href="#cb63-19" aria-hidden="true" tabindex="-1"></a>  <span class="fu">geom_segment</span>(</span>
+<span id="cb63-20"><a href="#cb63-20" aria-hidden="true" tabindex="-1"></a>    <span class="fu">aes</span>(<span class="at">x =</span> <span class="dv">1</span>, <span class="at">xend =</span> <span class="dv">1</span>, <span class="at">y =</span> y <span class="sc">-</span> <span class="fl">0.4</span>, <span class="at">yend =</span> y <span class="sc">-</span> <span class="fl">0.9</span>),</span>
+<span id="cb63-21"><a href="#cb63-21" aria-hidden="true" tabindex="-1"></a>    <span class="at">data =</span> flow_steps <span class="sc">|&gt;</span> <span class="fu">filter</span>(y <span class="sc">&gt;</span> <span class="fu">min</span>(y)),</span>
+<span id="cb63-22"><a href="#cb63-22" aria-hidden="true" tabindex="-1"></a>    <span class="at">arrow =</span> <span class="fu">arrow</span>(<span class="at">length =</span> <span class="fu">unit</span>(<span class="fl">0.12</span>, <span class="st">"inches"</span>)),</span>
+<span id="cb63-23"><a href="#cb63-23" aria-hidden="true" tabindex="-1"></a>    <span class="at">linewidth =</span> <span class="fl">0.4</span></span>
+<span id="cb63-24"><a href="#cb63-24" aria-hidden="true" tabindex="-1"></a>  ) <span class="sc">+</span></span>
+<span id="cb63-25"><a href="#cb63-25" aria-hidden="true" tabindex="-1"></a>  <span class="co"># then drawing the boxes on top</span></span>
+<span id="cb63-26"><a href="#cb63-26" aria-hidden="true" tabindex="-1"></a>  <span class="fu">geom_label</span>(<span class="at">size =</span> <span class="fl">4.2</span>, <span class="at">label.size =</span> <span class="fl">0.4</span>, <span class="at">fill =</span> <span class="st">"white"</span>) <span class="sc">+</span></span>
+<span id="cb63-27"><a href="#cb63-27" aria-hidden="true" tabindex="-1"></a>  <span class="fu">scale_x_continuous</span>(<span class="cn">NULL</span>, <span class="at">breaks =</span> <span class="cn">NULL</span>, <span class="at">limits =</span> <span class="fu">c</span>(<span class="fl">0.8</span>, <span class="fl">1.2</span>)) <span class="sc">+</span></span>
+<span id="cb63-28"><a href="#cb63-28" aria-hidden="true" tabindex="-1"></a>  <span class="fu">scale_y_continuous</span>(<span class="cn">NULL</span>, <span class="at">breaks =</span> <span class="cn">NULL</span>, <span class="at">limits =</span> <span class="fu">c</span>(<span class="fl">0.2</span>, <span class="fl">6.8</span>)) <span class="sc">+</span></span>
+<span id="cb63-29"><a href="#cb63-29" aria-hidden="true" tabindex="-1"></a>  <span class="fu">theme_minimal</span>(<span class="at">base_size =</span> <span class="dv">13</span>) <span class="sc">+</span></span>
+<span id="cb63-30"><a href="#cb63-30" aria-hidden="true" tabindex="-1"></a>  <span class="fu">ggtitle</span>(<span class="st">"Schematic: Computationally Intensive Inference Workflow"</span>)</span></code></pre></div><button title="Copy to Clipboard" class="code-copy-button"><i class="bi"></i></button></div>
 </details>
 <div class="cell-output-display">
 <div>
@@ -1573,7 +1570,7 @@ mean in group FALSE  mean in group TRUE
 <div class="cell-output-display">
 <div data-pagedtable="false">
   <script data-pagedtable-source="" type="application/json">
-{"columns":[{"label":["lower_ci"],"name":[1],"type":["dbl"],"align":["right"]},{"label":["upper_ci"],"name":[2],"type":["dbl"],"align":["right"]}],"data":[{"1":"-2.829749","2":"6.690815"}],"options":{"columns":{"min":{},"max":[10]},"rows":{"min":[10],"max":[10]},"pages":{}}}
+{"columns":[{"label":["lower_ci"],"name":[1],"type":["dbl"],"align":["right"]},{"label":["upper_ci"],"name":[2],"type":["dbl"],"align":["right"]}],"data":[{"1":"-2.779167","2":"6.697401"}],"options":{"columns":{"min":{},"max":[10]},"rows":{"min":[10],"max":[10]},"pages":{}}}
   </script>
 </div>
 </div>
@@ -1693,7 +1690,7 @@ mean in group FALSE  mean in group TRUE
 <div class="cell-output-display">
 <div data-pagedtable="false">
   <script data-pagedtable-source="" type="application/json">
-{"columns":[{"label":["p_value"],"name":[1],"type":["dbl"],"align":["right"]}],"data":[{"1":"0.075"}],"options":{"columns":{"min":{},"max":[10]},"rows":{"min":[10],"max":[10]},"pages":{}}}
+{"columns":[{"label":["p_value"],"name":[1],"type":["dbl"],"align":["right"]}],"data":[{"1":"0.076"}],"options":{"columns":{"min":{},"max":[10]},"rows":{"min":[10],"max":[10]},"pages":{}}}
   </script>
 </div>
 </div>
